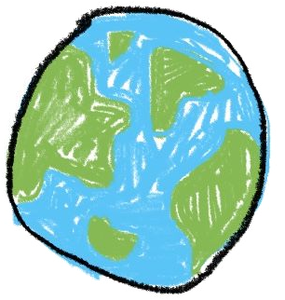
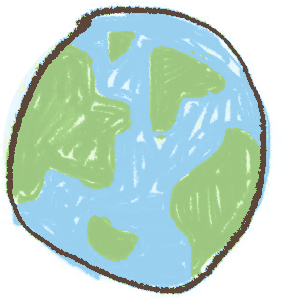
아이콘 교체

diff --git a/index.html b/index.html
@@ -22,10 +22,10 @@
 <meta name="twitter:card" content="summary_large_image">
 
 <link rel="preconnect" href="https://fonts.googleapis.com">
-<link rel="stylesheet" href="https://fonts.googleapis.com/css2?family=Noto+Sans+KR:wght@400;500;600;700;800&family=Noto+Sans+TC:wght@500;700&display=swap">
+<link rel="stylesheet" href="https://fonts.googleapis.com/css2?family=Noto+Sans+KR:wght@400;500;600;700;800&family=Noto+Sans+TC:wght@500;700&family=Gaegu:wght@700&display=swap">
 <title>여섯 식구 첫 해외여행</title>
 <link rel="preconnect" href="https://fonts.googleapis.com">
-<link rel="stylesheet" href="https://fonts.googleapis.com/css2?family=Noto+Sans+KR:wght@400;500;600;700;800&family=Noto+Sans+TC:wght@500;700&display=swap">
+<link rel="stylesheet" href="https://fonts.googleapis.com/css2?family=Noto+Sans+KR:wght@400;500;600;700;800&family=Noto+Sans+TC:wght@500;700&family=Gaegu:wght@700&display=swap">
 <style>
 /* Layout: Toss-style app page. Light grey ground, white rounded cards, bold sans headings, blue accent. One panel at a time. Sticky tab bar on top; one tab panel at a time: map first, then schedule, then tap-to-open place and food tiles. Single light theme on purpose (white paper look). */
 :root{
@@ -929,21 +929,22 @@ button,a,.sched li,.tile,.tc,.eth,.daybtn,.zh,.chip,.aqb,.nowcard,.ovm-vp{-webki
 .ovm-h,.ovm-zb button{display:grid;place-items:center;padding:0;line-height:1;font-family:var(--body)}.ovm-zb button svg,.ovm-h svg{width:18px;height:18px;display:block}
 .ovm-h{width:auto!important;padding:0 11px 0 9px!important;display:flex!important;align-items:center;gap:4px;font-size:14px!important;font-weight:800}.ovm-h svg{width:17px!important;height:17px!important}.ovsvg .hotel .hs{fill:#fff}
 #splash{position:fixed;inset:0;z-index:100;background:var(--paper,#fff);display:flex;flex-direction:column;align-items:center;justify-content:center;gap:6px;transition:opacity .8s ease,visibility .8s}
-#splash .sp-scene{position:relative;width:240px;height:320px}
+#splash .sp-scene{position:relative;width:260px;height:390px}
 #splash .sp-globe{position:absolute;left:50%;bottom:0;width:190px;margin-left:-95px;animation:spSpin 24s linear infinite}
 #splash .sp-char{position:absolute;left:50%;bottom:150px;width:128px;margin-left:-64px;transform-origin:50% 100%;animation:spBob 3.6s ease-in-out infinite;z-index:2}
-#splash .sp-bub{position:absolute;left:50%;bottom:284px;transform:translateX(-50%);background:#fff;border:2px solid #3A3A3A;border-radius:16px;padding:7px 13px;white-space:nowrap;z-index:3;box-shadow:0 3px 10px rgba(0,0,0,.06);animation:spBub .6s cubic-bezier(.25,.7,.3,1) .1s both}
-#splash .sp-bub::after{content:'';position:absolute;left:50%;bottom:-8px;width:12px;height:12px;margin-left:-6px;background:#fff;border-right:2px solid #3A3A3A;border-bottom:2px solid #3A3A3A;transform:rotate(45deg)}
-#splash .sp-msg{font-size:15px;font-weight:700;color:#3A3A3A;letter-spacing:-.01em}
+#splash .sp-bub{position:absolute;left:50%;bottom:272px;transform:translateX(-50%) rotate(-2deg);z-index:3;padding:11px 20px 12px;white-space:nowrap;animation:spBub .7s cubic-bezier(.25,.7,.3,1) .1s both}
+#splash .sp-cloud{position:absolute;inset:0;width:100%;height:100%;overflow:visible;z-index:-1;filter:drop-shadow(0 2px 4px rgba(92,70,58,.10))}
+#splash .sp-tail{position:absolute;left:50%;bottom:-17px;width:22px;height:20px;margin-left:-14px;z-index:1;overflow:visible}
+#splash .sp-msg{position:relative;display:block;font-family:'Gaegu','Nanum Pen Script',var(--body),sans-serif;font-size:18px;font-weight:700;color:#4A382E;letter-spacing:-.01em;line-height:1.15}
 @keyframes spSpin{to{transform:rotate(360deg)}}
 @keyframes spBob{0%,100%{transform:rotate(-2.5deg)}50%{transform:rotate(2.5deg) translateY(-3px)}}
-@keyframes spBub{from{opacity:0;transform:translate(-50%,6px) scale(.92)}to{opacity:1;transform:translate(-50%,0)}}
+@keyframes spBub{from{opacity:0;transform:translateX(-50%) translateY(6px) rotate(-2deg) scale(.92)}to{opacity:1;transform:translateX(-50%) rotate(-2deg)}}
 #splash.out{opacity:0;visibility:hidden}
 </style>
 </head>
 <body>
 
-<div id="splash" aria-hidden="true"><div class="sp-scene"><div class="sp-bub"><span class="sp-msg"></span></div><img class="sp-char" src="img/splash.png?v=2" alt="" onerror="this.remove()"><img class="sp-globe" src="img/globe.png" alt="" onerror="this.remove()"></div></div><script>(function(){var m=["설레는 마음 싣는 중…","여권은 챙기셨죠?","캐리어 바퀴 굴리는 중…","오늘의 맛집 데우는 중…","가족 단톡방 확인 중…","지도 펼치는 중…","비행기 창가 자리 고르는 중…","사진 찍을 준비 됐나요?"];var e=document.querySelector("#splash .sp-msg");if(e)e.textContent=m[Math.floor(Math.random()*m.length)]})()</script>
+<div id="splash" aria-hidden="true"><div class="sp-scene"><div class="sp-bub"><svg class="sp-cloud" viewBox="0 0 100 60" preserveAspectRatio="none" aria-hidden="true"><path d="M97.6 30.1 C97.6 33.8 97.5 38.9 97.0 41.6 C96.6 44.3 96.2 44.8 95.1 46.4 C93.9 48.1 92.0 50.4 90.2 51.6 C88.5 52.8 86.9 52.9 84.8 53.6 C82.8 54.4 81.1 55.4 77.8 55.9 C74.6 56.4 72.6 56.8 65.5 56.8 C58.4 56.9 42.3 56.5 35.2 56.4 C28.1 56.3 26.4 56.8 23.0 56.4 C19.7 56.1 17.2 55.4 14.9 54.4 C12.6 53.4 10.9 51.7 9.3 50.5 C7.7 49.3 6.6 48.8 5.5 47.2 C4.3 45.6 3.0 43.7 2.5 40.8 C2.0 37.9 2.4 33.6 2.5 30.0 C2.6 26.3 2.6 21.8 3.1 19.1 C3.6 16.3 4.4 15.2 5.4 13.5 C6.4 11.9 7.4 10.5 8.9 9.3 C10.5 8.2 12.3 7.6 14.8 6.6 C17.2 5.6 20.1 4.1 23.4 3.5 C26.7 2.9 27.5 2.8 34.5 2.7 C41.5 2.6 58.5 2.9 65.6 3.0 C72.8 3.2 74.1 3.3 77.3 3.8 C80.6 4.3 82.9 4.9 85.2 5.8 C87.4 6.7 89.1 7.7 90.7 9.0 C92.4 10.3 93.9 11.8 95.0 13.5 C96.1 15.2 97.0 16.4 97.5 19.2 C97.9 21.9 97.7 26.3 97.6 30.1Z" fill="#fff" stroke="#5C463A" stroke-width="2" vector-effect="non-scaling-stroke" stroke-linejoin="round"/><path d="M97.7 37.7 C97.8 41.5 98.0 42.4 97.2 44.4 C96.4 46.4 94.8 48.0 93.2 49.4 C91.6 50.8 89.5 51.7 87.6 52.7 C85.7 53.8 84.6 55.2 81.8 55.7 C79.0 56.3 76.3 55.8 71.0 56.1 C65.7 56.4 57.1 57.8 50.1 57.7 C43.0 57.6 33.7 55.8 28.6 55.5 C23.5 55.3 22.4 56.6 19.6 56.1 C16.8 55.7 14.3 54.3 12.1 53.0 C9.8 51.6 7.5 49.7 6.1 48.2 C4.8 46.6 4.6 45.4 3.8 43.5 C3.0 41.7 2.0 40.6 1.5 37.0 C1.1 33.5 0.8 25.8 1.2 22.4 C1.5 18.9 2.6 18.2 3.6 16.3 C4.6 14.4 5.6 12.5 6.9 11.1 C8.3 9.7 9.8 8.8 11.7 7.7 C13.6 6.6 15.5 4.9 18.4 4.4 C21.3 3.9 24.0 4.7 29.2 4.6 C34.4 4.4 42.7 3.7 49.8 3.5 C56.8 3.2 66.2 2.8 71.4 2.9 C76.6 3.0 78.1 3.2 81.0 3.9 C83.9 4.6 86.7 6.0 88.9 7.1 C91.0 8.2 92.5 9.0 93.9 10.5 C95.3 12.0 96.8 14.4 97.3 16.3 C97.7 18.1 96.6 18.2 96.7 21.7 C96.8 25.3 97.6 33.9 97.7 37.7Z" fill="none" stroke="#5C463A" stroke-width="1" stroke-opacity=".45" vector-effect="non-scaling-stroke"/></svg><svg class="sp-tail" viewBox="0 0 24 22" aria-hidden="true"><path d="M2 1.5 C7 6 9 12 8.5 20.5 C12.5 14 16 8 22 1.5" fill="#fff" stroke="#5C463A" stroke-width="2" stroke-linejoin="round" stroke-linecap="round"/><path d="M1 0 H23 V2.2 H1Z" fill="#fff"/></svg><span class="sp-msg"></span></div><img class="sp-char" src="img/splash.png?v=2" alt="" onerror="this.remove()"><img class="sp-globe" src="img/globe.png?v=2" alt="" onerror="this.remove()"></div></div><script>(function(){var m=["설레는 마음 싣는 중…","여권은 챙기셨죠?","캐리어 바퀴 굴리는 중…","오늘의 맛집 데우는 중…","가족 단톡방 확인 중…","지도 펼치는 중…","비행기 창가 자리 고르는 중…","사진 찍을 준비 됐나요?"];var e=document.querySelector("#splash .sp-msg");if(e){e.textContent=m[Math.floor(Math.random()*m.length)];}})()</script>
 <div class="wrap">
   <div class="topbar" id="topbar" hidden><button type="button" class="back" id="backBtn"><svg viewBox="0 0 24 24" fill="none" stroke="currentColor" stroke-width="2.2" stroke-linecap="round" stroke-linejoin="round" aria-hidden="true"><path d="M3 10.5 12 3l9 7.5"/><path d="M5.5 9v11h13V9"/><path d="M10 20v-5.5h4V20"/></svg>처음으로</button><span class="where" id="where"></span></div>
   <main id="panels"></main>
@@ -1351,7 +1352,7 @@ function a2hBox(){const ua=navigator.userAgent,os=/iPhone|iPad|iPod/.test(ua)?(/
   return w}
 function openA2H(){openSheet({title:'바탕화면에 앱으로 추가하기',lbl:'1분이면 돼요',text:[]});const i=sheet.querySelector('.in');if(i)i.appendChild(a2hBox())}
 function homePanel(){const p=el('section','panel');
-  p.innerHTML=`<div class="hello"><span class="ver">v2.4</span><h1 class="h1m"><span>여섯 식구 첫 해외여행</span><img class="mascot" src="img/hello.png?v=2" alt="" onerror="this.remove()"></h1><p class="sub1">대만 3박 4일 안내서</p><p>2026년 11월 7일(토) ~ 10일(화)</p></div>${todayIdx>=0?`<button type="button" class="nowcard" id="nowCard"></button>`:''}<div class="ask" data-zh="日程">어느 날 일정을 볼까요?</div>`;
+  p.innerHTML=`<div class="hello"><span class="ver">v2.8</span><h1 class="h1m"><span>여섯 식구 첫 해외여행</span><img class="mascot" src="img/hello.png?v=2" alt="" onerror="this.remove()"></h1><p class="sub1">대만 3박 4일 안내서</p><p>2026년 11월 7일(토) ~ 10일(화)</p></div>${todayIdx>=0?`<button type="button" class="nowcard" id="nowCard"></button>`:''}<div class="ask" data-zh="日程">어느 날 일정을 볼까요?</div>`;
   const nc=p.querySelector('#nowCard');if(nc)nc.addEventListener('click',()=>show(DAYS[todayIdx].id));
   const g=el('div','daybtns');
   [['토','타이베이 300년, 하루의 시간 여행','용산사 · 중정기념당 · 101 야경'],['일','바다가 빚고, 탄광이 키운 북쪽 해안','예류 · 스펀 · 지우펀'],['월','타이야족의 온천 마을과 대만의 명동','우라이 꼬마기차와 폭포 · 시먼딩'],['화','다시 만날 날을 약속하며','공항에서 6명이 함께 마지막 아점']].forEach(([w,t,s],i)=>{
@@ -1465,7 +1466,7 @@ prevBtn.addEventListener('click',()=>prevTo&&show(prevTo));
 nextBtn.addEventListener('click',()=>nextTo&&show(nextTo));
 $('#backBtn').addEventListener('click',()=>show('home'));
 show((location.hash||'').slice(1)||'home');
-{const sp=document.getElementById('splash');if(sp){const t0=(performance.timing&&performance.timing.navigationStart)||0;const left=Math.max(0,1700-(Date.now()-t0));setTimeout(()=>{sp.classList.add('out');setTimeout(()=>sp.remove(),900)},left)}}
+{const sp=document.getElementById('splash');if(sp){sp.addEventListener('click',()=>{sp.classList.add('out');setTimeout(()=>sp.remove(),900)});const t0=(performance.timing&&performance.timing.navigationStart)||0;const left=Math.max(0,1700-(Date.now()-t0));setTimeout(()=>{sp.classList.add('out');setTimeout(()=>sp.remove(),900)},left)}}
 {const idle=window.requestIdleCallback||(fn=>setTimeout(fn,300));const q=DAYS.map(d=>d.id);const next=()=>{const id=q.shift();if(!id)return;const P=built[id],sl=P&&P.querySelector('.ovslot[data-f]');if(sl&&cur!==id)sl.replaceWith(buildOvMap(sl.dataset.f,sl._cap));idle(next,{timeout:3000})};setTimeout(()=>idle(next,{timeout:3000}),1200)}
 
 /* ---------- popups ---------- */

diff --git a/sw.js b/sw.js
@@ -1,5 +1,5 @@
 // 여섯 식구 첫 해외여행 · 오프라인 저장
-const CACHE='tw-v12';
+const CACHE='tw-v13';
 const PRE=["./", "index.html", "manifest.webmanifest", "icon-192.png", "apple-touch-icon.png", "img/101.jpg", "img/chiikawa.jpg", "img/cks.jpg", "img/day1.jpg", "img/day2.jpg", "img/day3.jpg", "img/day4.jpg", "img/donki.jpg", "img/f_beef.jpg", "img/f_boar.jpg", "img/f_boba.jpg", "img/f_charsiu.jpg", "img/f_court.jpg", "img/f_fruit.jpg", "img/f_gopchang.jpg", "img/f_hotpot.jpg", "img/f_kiki.jpg", "img/f_lurou.jpg", "img/f_mango.jpg", "img/f_peanut.jpg", "img/f_pepper.jpg", "img/f_ribs.jpg", "img/f_sausage.jpg", "img/f_shandi.jpg", "img/f_wing.jpg", "img/flight.jpg", "img/hero.jpg", "img/hello.png", "img/splash.png", "img/globe.png", "img/hotel.jpg", "img/jiufen.jpg", "img/longshan.jpg", "img/r_jiufen.jpg", "img/r_shifen.jpg", "img/r_wulai.jpg", "img/r_yehliu.jpg", "img/raohe.jpg", "img/redhouse.jpg", "img/shifen.jpg", "img/trolley.jpg", "img/wannian.jpg", "img/wulaifall.jpg", "img/wulaist.jpg", "img/wulaivil.jpg", "img/ximen.jpg", "img/ximenug.jpg", "img/yehliu.jpg", "og.jpg"];
 self.addEventListener('install',e=>{e.waitUntil(caches.open(CACHE).then(c=>Promise.all(PRE.map(u=>c.add(u).catch(()=>{})))).then(()=>self.skipWaiting()))});
 self.addEventListener('activate',e=>{e.waitUntil(caches.keys().then(ks=>Promise.all(ks.filter(k=>k!==CACHE).map(k=>caches.delete(k)))).then(()=>self.clients.claim()))});
